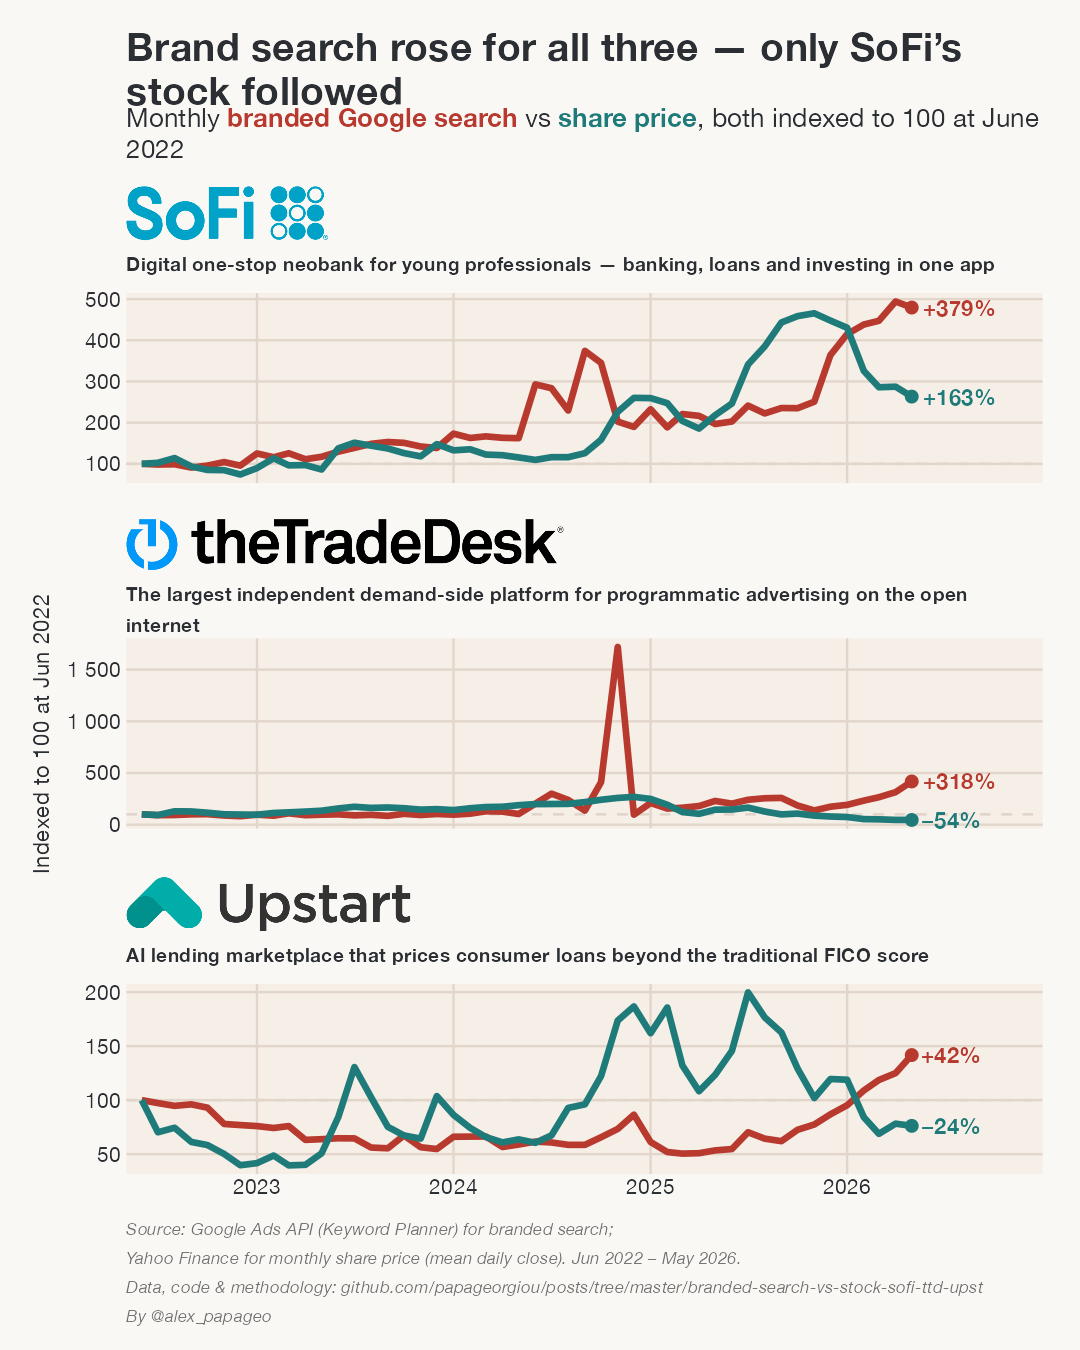
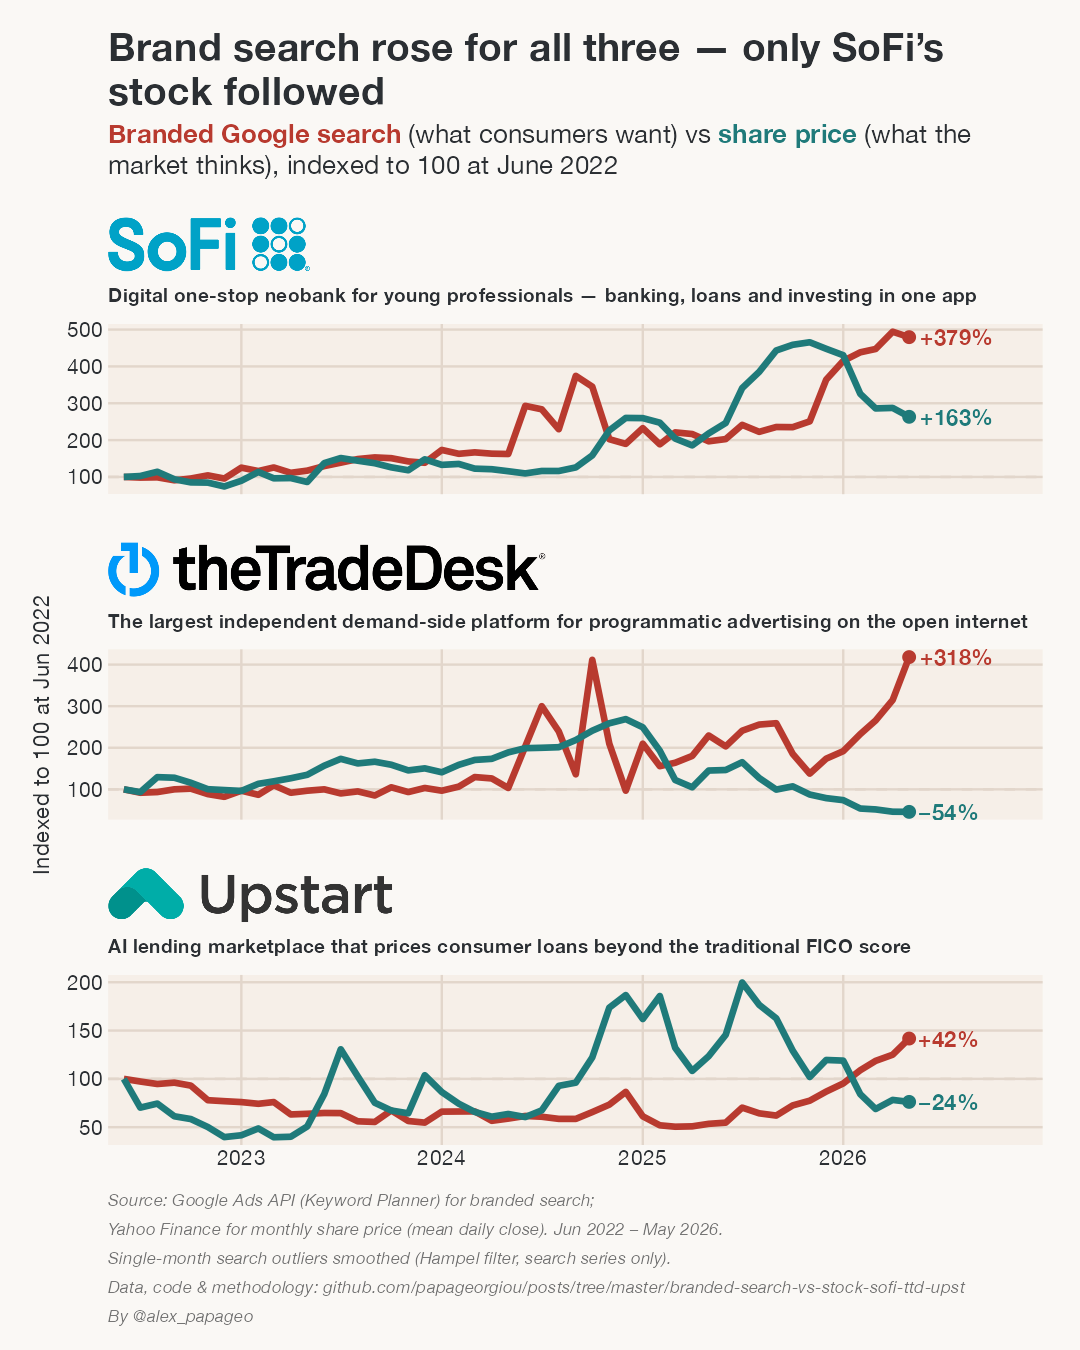
Correct TTD Nov-2024 search artifact; frame as markets vs consumers
The Trade Desk's branded search reads 10,490 in Nov 2024 against
~600-2,500 in neighbouring months and 590 the next month - a Google Ads
Keyword Planner reporting artifact, not real demand. Indexed, it spiked
to 1,720 and flattened every other line in the panel.

Fix: a Hampel filter (7-month window, 3 MAD) on the branded search series
only, with a 2.5x relative-magnitude guard so ordinary month-to-month
noise is left alone. It replaces exactly one point (TTD Nov 2024 ->
local median 1,280); prices are never touched. TTD's panel now tops out
near +318% instead of +1,720%, so the real divergence (search up, price
-54%) is readable.

Also reframed the subtitle/README around the post's thesis: the gap
between what the market thinks (share price) and what consumers want
(branded search). Disclosed the smoothing in the caption and methodology.

Changed region(s): [[0.0306, 0.0, 0.9472, 0.9956]]

diff --git a/branded-search-vs-stock-sofi-ttd-upst/README.md b/branded-search-vs-stock-sofi-ttd-upst/README.md
@@ -2,7 +2,7 @@
 
 A LinkedIn data visualization comparing **branded Google search demand** against the **share price** for three digital-first public companies, June 2022 to May 2026.
 
-Both series are **rebased to 100 at June 2022** (indexed overlay), so the chart shows relative growth on a single scale per company — no dual y-axis.
+The idea is to look at the **gap between what the market thinks (share price) and what consumers want (branded search demand)**. Both series are **rebased to 100 at June 2022** (indexed overlay), so the chart shows relative growth on a single scale per company — no dual y-axis.
 
 ![Chart](outputs/search_vs_stock_sofi_ttd_upst.png)
 
@@ -28,7 +28,9 @@ Branded search rose for all three companies over the period, but only SoFi's sha
 
 **Share price.** Daily closing prices from Yahoo Finance, resampled to a monthly mean (the average of the daily closes within each calendar month). Prices are split/dividend adjusted.
 
-**Indexing.** For each company and each series, the value is divided by its June 2022 value and multiplied by 100, so every line starts at 100. The dashed line at 100 marks that baseline; end-of-line labels show the percentage change versus the baseline.
+**Outlier handling.** Google Ads Keyword Planner occasionally returns a single-month spike that is a reporting artifact rather than real demand — for example, The Trade Desk's branded search reads 10,490 in November 2024, against roughly 600–2,500 in the surrounding months and 590 the very next month. A Hampel filter (7-month window, 3 median-absolute-deviations) flags such points, with an added guard that only replaces a month if it is also at least 2.5x above/below its local median, so ordinary month-to-month noise is left untouched. Flagged points are replaced with the local median. This affects only the branded search series (one point, TTD Nov 2024); share prices are never altered.
+
+**Indexing.** For each company and each series, the (outlier-corrected) value is divided by its June 2022 value and multiplied by 100, so every line starts at 100. The dashed line at 100 marks that baseline; end-of-line labels show the percentage change versus the baseline.
 
 **Window.** June 2022 – May 2026 (48 aligned months).
 
